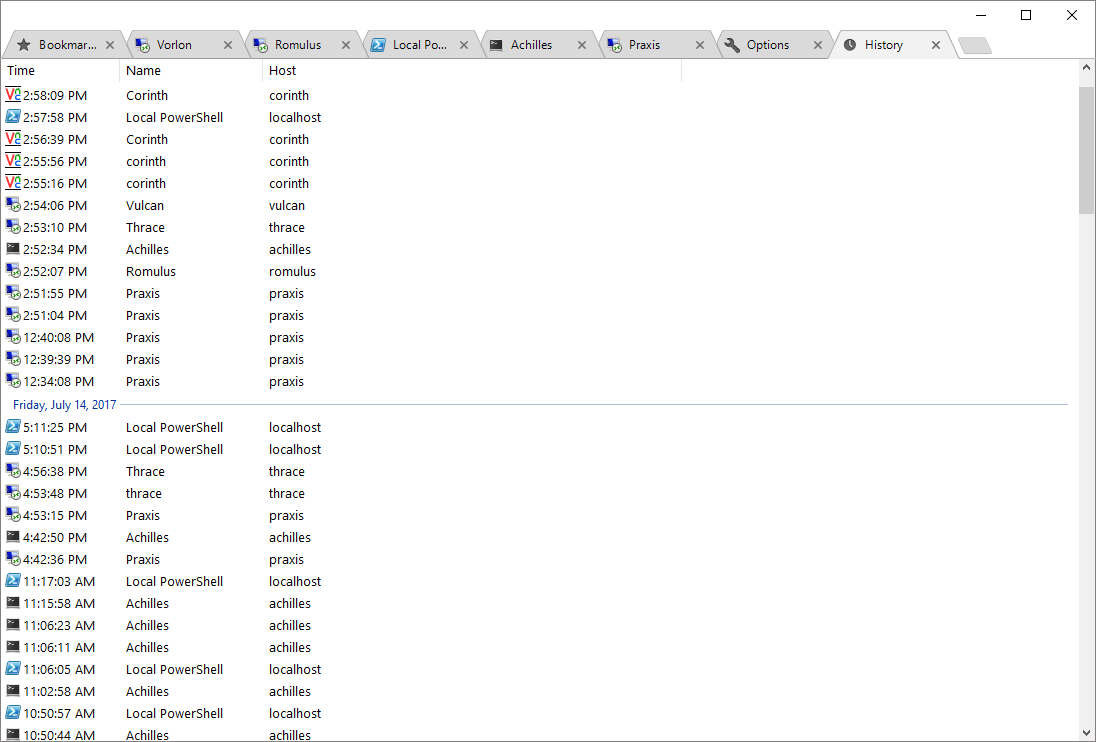
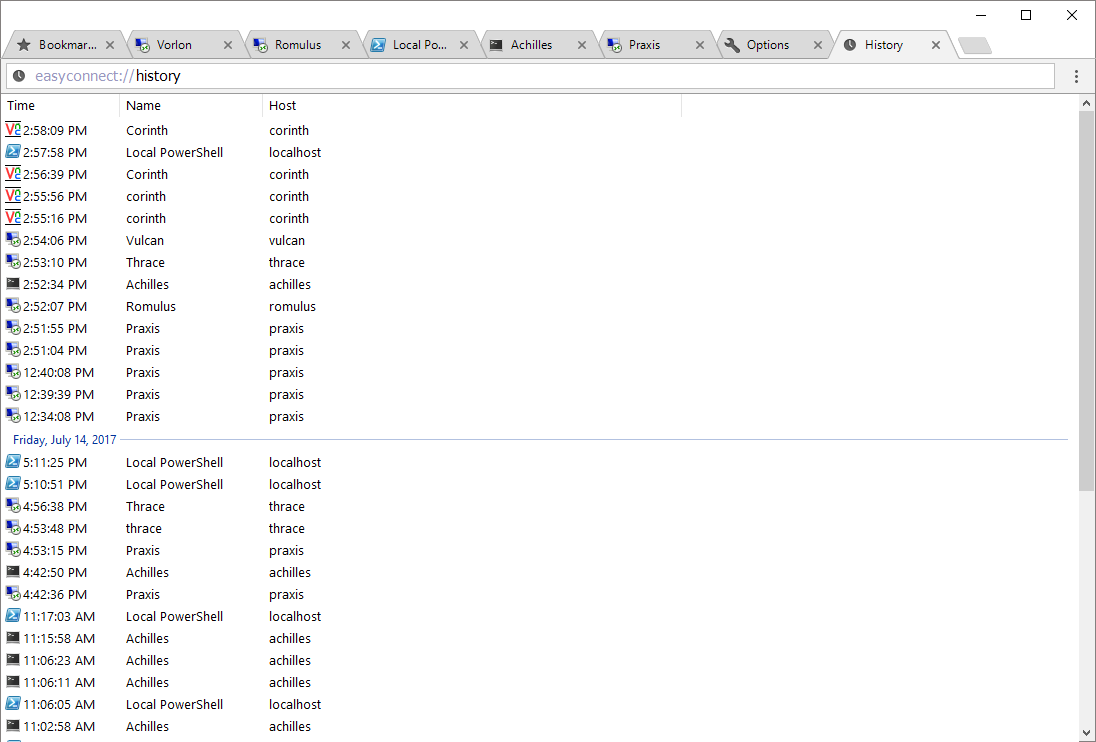
Updated the screenshots and the release notes for v2.1.

Changed region(s): [[0.0, 0.093, 0.9927, 1.0], [0.9617, 0.279, 1.0, 0.6819], [0.9617, 0.093, 1.0, 0.155]]

diff --git a/index.html b/index.html
@@ -33,9 +33,6 @@
 				<div class="collapse navbar-collapse">
 					<ul class="nav navbar-nav navbar-right">
 						<li>
-							<a href="http://chocolatey.org/packages/easyconnect">Chocolatey Package</a>
-						</li>
-						<li>
 							<a href="https://github.com/lstratman/EasyConnect/zipball/master">Download Source</a>
 						</li>
 						<li>
@@ -58,7 +55,7 @@
 							<a class="btn btn-default" href="https://github.com/lstratman/EasyConnect"><img style="vertical-align: text-top;" width="16" src="images/GitHub.png"> Fork me on GitHub</a>
 						</p>
 						<br/>
-						<p>Current version: 2.0.1</p>
+						<p>Current version: 2.1.0</p>
 					</div>
 					<div class="col-md-5 visible-md visible-lg">
 						<div id="screenshots" class="carousel slide pull-right" data-ride="carousel">
@@ -148,13 +145,11 @@
 			<div class="row">
 				<div class="col-md-4 feature">
 					<div class="feature-icon">
-						<span class="glyphicon glyphicon-check"></span>
+						<span class="glyphicon glyphicon-download-alt"></span>
 					</div>
 					<div class="feature-body">
-						<h3>Chocolatey</h3>
-						<p>Available to install via Chocolatey:</p>
-						<pre class="nuget">
-C:\> cinst easyconnect</pre>
+						<h3>Microsoft Store</h3>
+						<p>Available to install through the <a href="https://www.microsoft.com/en-us/store/p/easyconnect/9nml5g3phdg1?rtc=1" target="_blank">Microsoft Store</a>.</p>
 					</div>
 				</div>
 				<div class="col-md-4 feature">
@@ -163,7 +158,7 @@ C:\> cinst easyconnect</pre>
 					</div>
 					<div class="feature-body">
 						<h3>Automatic updates</h3>
-						<p>Automatic updating with <a href="http://netsparkle.codeplex.com/" target="_blank">NetSparkle</a> keeps you running on the latest version.</p>
+						<p>Automatic updating with the Microsoft Store or <a href="https://github.com/dei79/netsparkle" target="_blank">NetSparkle</a> keeps you running on the latest version.</p>
 					</div>
 				</div>
 				<div class="col-md-4 feature">

diff --git a/updates/2.1.html b/updates/2.1.html
@@ -1,0 +1,17 @@
+<html>
+	<head>
+		<link rel="stylesheet" type="text/css" href="updates.css"/>
+	</head>
+	<body>
+		<h3>Change log</h3>
+
+		<ul>
+			<li>URL bar added to the settings, history, and bookmarks windows.</li>
+			<li>Disabled delete, rename, and cut menu items from the bookmarks context menu if the folder that was right-clicked on was the root.</li>
+			<li>Added the VNC port number to its options window.</li>
+			<li>All error messages during the SSH connection process will now be displayed correctly.</li>
+			<li>SSH connection from the address bar will now prompt you for a username and password.</li>
+			<li>Added EasyConnect to the Microsoft Store.</li>
+        </ul>
+	</body>
+</html>
